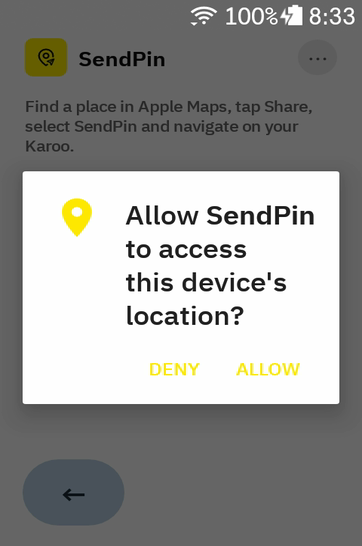
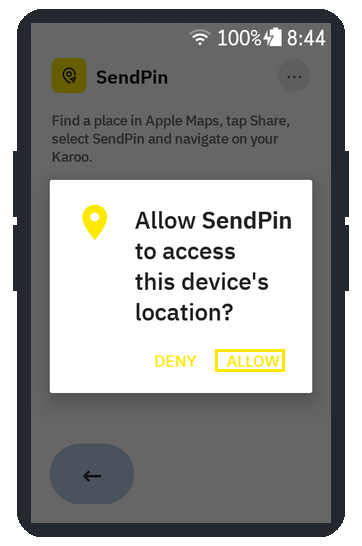
Update permission GIF, still, and Step 4 copy
- Recomposite permission.gif frames 2–3 with new light-mode UI screenshots
  (permission dialog + Enabled/Listening toggle), preserving device border
  and yellow annotation boxes from original
- Regenerate permission-still.png from the updated frame 2
- Update Step 4 instructions: "Listen for destinations" → "Enabled" /
  "Listening" to match the new toggle label

diff --git a/docs/index.html b/docs/index.html
@@ -603,8 +603,8 @@ footer p { margin:0 0 6px; }
       <li>On the Karoo, open <strong>Extensions</strong> from the main menu</li>
       <li>Open <strong>SendPin</strong></li>
       <li>Grant <strong>location permission</strong> when it asks</li>
-      <li>Check <strong>Listen for destinations</strong> is on and the status reads
-          <strong>listening</strong></li>
+      <li>Check <strong>Enabled</strong> is on and the status reads
+          <strong>Listening</strong></li>
     </ol>
   </section>
   </div>
@@ -686,7 +686,7 @@ footer p { margin:0 0 6px; }
   <table>
     <tr><th>Status</th><th>What it means</th></tr>
     <tr><td>Location permission is required</td><td>Tap to grant it. Nothing works until you do.</td></tr>
-    <tr><td>off</td><td>The <strong>Listen for destinations</strong> switch is off.</td></tr>
+    <tr><td>off</td><td>The <strong>Enabled</strong> switch is off.</td></tr>
     <tr><td>waiting for Bluetooth</td><td>The Karoo hasn't handed over the radio. It retries; if it persists, restart the Karoo.</td></tr>
     <tr><td>listening</td><td>The Karoo is fine — check the phone was showing the SendPin card, unlocked.</td></tr>
   </table>
